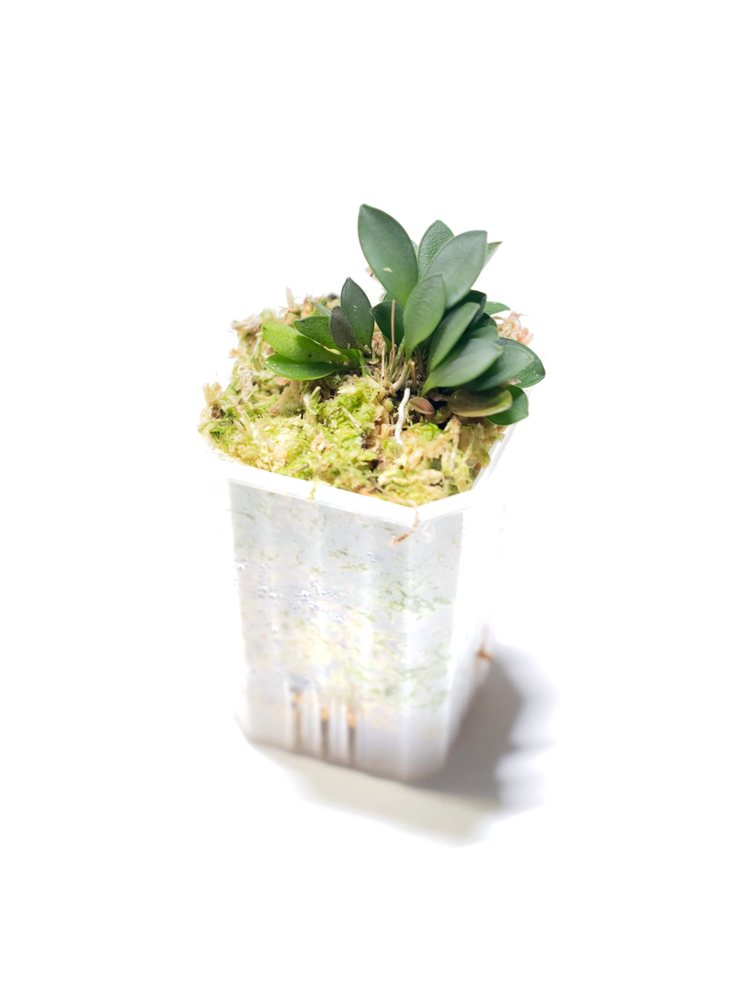
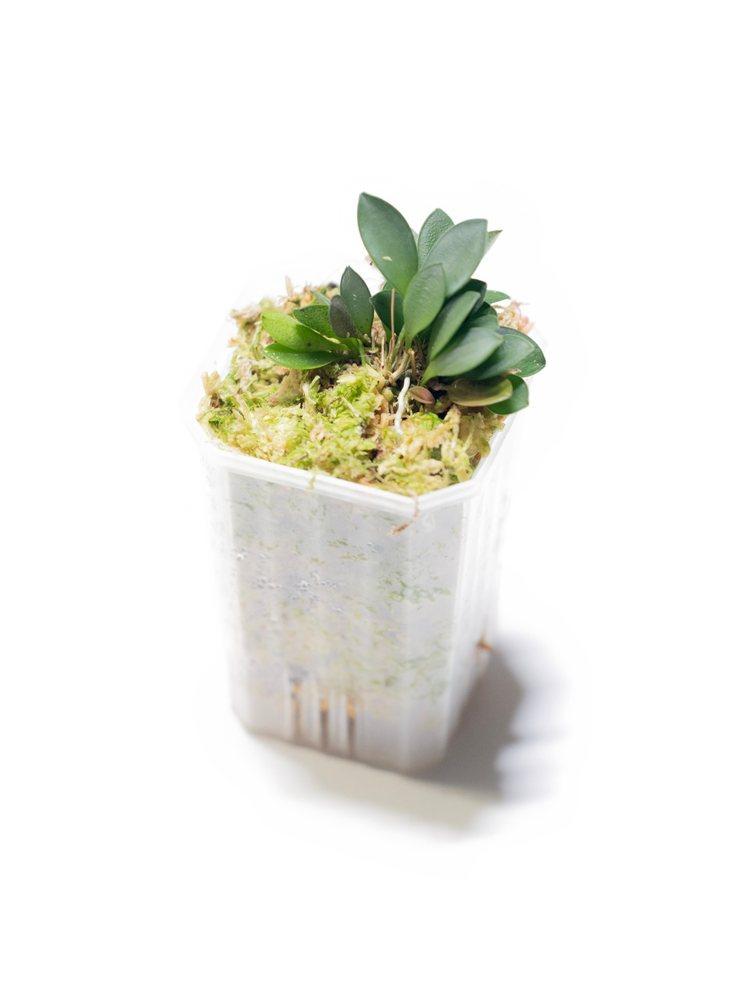
Re-make Specklinia grobyi photos so the white pots keep their detail
Claude-Session: https://claude.ai/code/session_01RTzuFWkWY9WEpCoxYCoC66

Changed region(s): [[0.2453, 0.186, 0.736, 0.837]]

diff --git a/assets/js/products.js b/assets/js/products.js
@@ -54,7 +54,7 @@ window.PM_PRODUCTS = [
     status: 'available',
     stock: 1,
     exact: true,
-    image: '/assets/img/products/specklinia-grobyi-1.jpg?v=1'
+    image: '/assets/img/products/specklinia-grobyi-1.jpg?v=2'
   },
   {
     id: 'specklinia-grobyi-2',
@@ -65,6 +65,6 @@ window.PM_PRODUCTS = [
     status: 'available',
     stock: 1,
     exact: true,
-    image: '/assets/img/products/specklinia-grobyi-2.jpg?v=1'
+    image: '/assets/img/products/specklinia-grobyi-2.jpg?v=2'
   }
 ];
